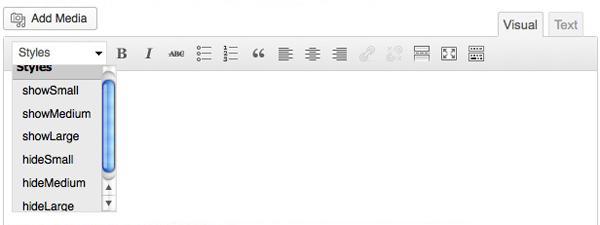
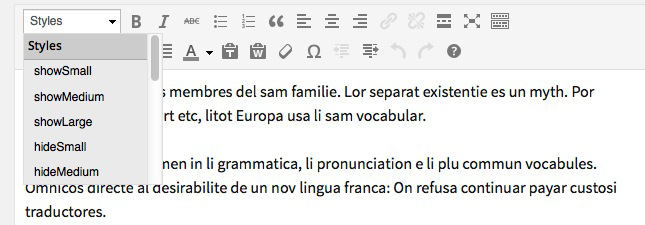
commit 2014.04.10
* compatible with TinyMCE 4.x
* added different instructions/images for WP pre/post 3.9
* additional screenshot of Formats dropdown for WP post 3.9
* updated language files

Changed region(s): [[0.0, 0.0, 1.0, 1.0], [0.24, 0.6844, 0.93, 0.7778], [0.24, 0.4667, 0.66, 0.56]]

diff --git a/so-visibility-classes.php b/so-visibility-classes.php
@@ -3,7 +3,7 @@
  * Plugin URI: http://so-wp.com/?p=19
  * Description: With the SO Responsive Content plugin you can easily adjust the length of your content for different devices by making use of visibility classes.
  * Author: Piet Bos
- * Version: 2014.1.20
+ * Version: 2014.4.10
  * Author URI: http://senlinonline.com
  * Text Domain: so-visibility-classes
  * Domain Path: /languages
@@ -135,7 +135,24 @@ function sovc_render_form() { ?>
 		<!-- Display Plugin Header and Description -->
 		<h2><?php _e( 'SO Responsive Content Instructions', 'so-visibility-classes' ); ?></h2>
 		
-		<p><?php _e( 'With the plugin activated you will see a new "Styles"-menu added to the Visual Editor.<br />The drop down contains 15 different options:', 'so-visibility-classes' ); ?></p>
+		<p>
+			<?php
+
+				global $wp_version;
+				$styles_version = '3.8.2';
+			
+				if ( version_compare( $wp_version, $styles_version, '>' ) ) {
+					
+					_e( 'With the plugin activated you will see a new "Formats"-menu added to the Visual Editor.<br />The drop down contains 15 different options:', 'so-visibility-classes' );
+					
+				} else {
+					
+					_e( 'With the plugin activated you will see a new "Styles"-menu added to the Visual Editor.<br />The drop down contains 15 different options:', 'so-visibility-classes' );
+					
+				}
+				
+			?>
+		</p>
 		<ul class="sovc-options-list">
 			<li class="list-item-title"><?php _e( 'For Paragraphs', 'so-visibility-classes' ); ?>
 				<ul>
@@ -165,11 +182,26 @@ function sovc_render_form() { ?>
 				</ul>
 			</li>
 		</ul>
+
 		<?php
-	$screenshot_menu_url = plugins_url( 'images/styles-dropdown-menu.png', __FILE__ );
-	$screenshot_editor_url = plugins_url( 'images/visual-editor.png', __FILE__ );
-		?>
+	
+			global $wp_version;
+			$styles_version = '3.8.2';
 		
+			if ( version_compare( $wp_version, $styles_version, '>' ) ) {
+				
+				$screenshot_menu_url = plugins_url( 'images/formats-dropdown-menu.png', __FILE__ );
+				
+			} else {
+				
+				$screenshot_menu_url = plugins_url( 'images/styles-dropdown-menu.png', __FILE__ );
+				
+			}
+			
+			$screenshot_editor_url = plugins_url( 'images/visual-editor.png', __FILE__ );
+			
+		?>
+
 		<img src="<?php echo $screenshot_menu_url; ?>" />
 		
 		<p><?php _e( 'Once you have selected a visibility class, the plugin shows that in 3 locations:', 'so-visibility-classes' ); ?></p>
@@ -237,8 +269,9 @@ function sovc_render_form() { ?>
 					</p>
 					
 					<ul>
-						<li><a href="http://senlinonline.com/" target="_blank" title="Senlin Online"><?php _e('Senlin Online', 'so-visibility-classes'); ?></a></li>
-						<li><a href="http://wpti.ps/" target="_blank" title="WP TIPS"><?php _e('WP Tips', 'so-visibility-classes'); ?></a></li>
+						<li><a href="https://senlinonline.com/plus/" target="_blank" title="SO PLUS"><?php _e( 'SO PLUS', 'so-visibility-classes' ); ?></a></li>
+						<li><a href="http://senlinonline.com/" target="_blank" title="Senlin Online"><?php _e( 'Senlin Online', 'so-visibility-classes' ); ?></a></li>
+						<li><a href="http://wpti.ps/" target="_blank" title="WP TIPS"><?php _e( 'WP Tips', 'so-visibility-classes' ); ?></a></li>
 						<li><a href="https://plus.google.com/+PietBos" target="_blank" title="Piet on Google+"><?php _e( 'Google+', 'so-visibility-classes' ); ?></a></li>
 						<li><a href="http://cn.linkedin.com/in/pietbos" target="_blank" title="LinkedIn profile"><?php _e( 'LinkedIn', 'so-visibility-classes' ); ?></a></li>
 						<li><a href="http://twitter.com/piethfbos" target="_blank" title="Twitter"><?php _e( 'Twitter: @piethfbos', 'so-visibility-classes' ); ?></a></li>

diff --git a/README.md b/README.md
@@ -1,7 +1,7 @@
 SO Responsive Content
 =====================
 
-###### Last updated on 2014.1.20
+###### Last updated on 2014.4.10
 ###### requires at least WordPress 3.6
 ###### tested up to WordPress 3.9-alpha
 ###### Author: [Piet Bos](https://github.com/senlin)
@@ -28,7 +28,7 @@ Naturally the SO Responsive Content plugin has been fully internationalized. In 
 
 The plugin only contains 38 strings (of which many only 1 word); it would be a awesome if you can help me translate it into other languages!
 
-* Dutch translation (nl_NL) by [Piet Bos](https://github.com/senlin/) (last updated November 28, 2013 - 0.3.3)
+* Dutch translation (nl_NL) by [Piet Bos](https://github.com/senlin/) (last updated April 10, 2014 - 2014.04.10)
 * Serbian translation (sr_RS) by Borisa Djuraskovic (last updated November 28, 2013 - 0.3.3)
 
 ## License
@@ -50,11 +50,14 @@ The plugin only contains 38 strings (of which many only 1 word); it would be a a
 
 [Website](http://senlinonline.com)
 
-## TODO
-
-issue[#1](https://github.com/senlin/so-responsive-content/issues/1)
-
 ## Changelog
+
+### 2014.04.10
+
+* compatible with TinyMCE 4.x
+* added different instructions/images for WP pre/post 3.9
+* additional screenshot of Formats dropdown for WP post 3.9
+* updated language files
 
 ### 2014.1.20
 
